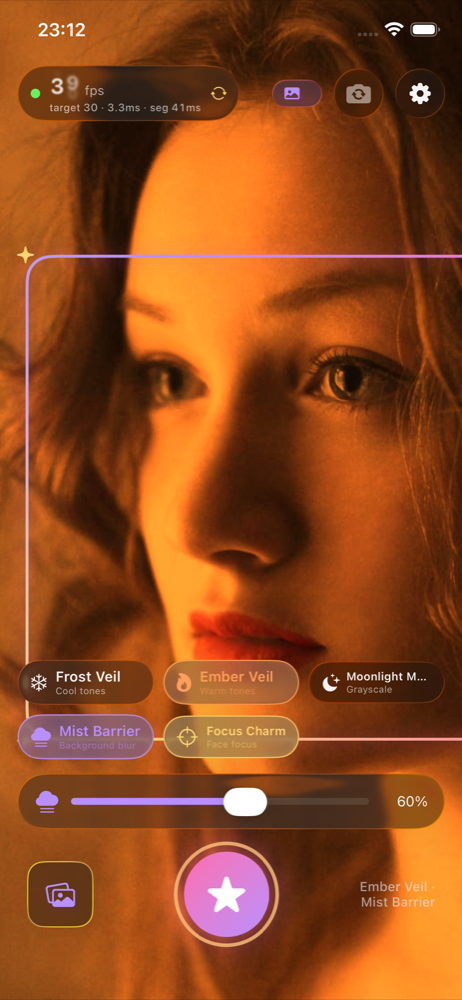
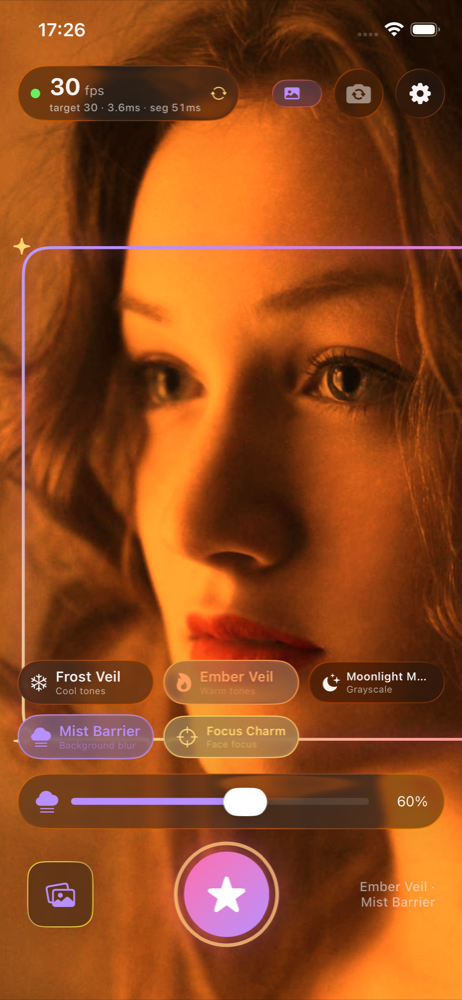
Maho Lens: frame-driven preview rendering; record device performance reports
On the iPhone 16e the camera delivered 58 and 29 fps and rendering took ~1 ms, yet the
preview counted 50 and 24 fps because the MTKView drew on a display timer at the target
rate and beat against the capture rate. The view is now paused and draw() runs for every
captured frame, so the preview rate tracks capture. Device reports are recorded in
docs/MODELS.md with the finding in docs/BUGS.md.

diff --git a/Maho Lens/Rendering/MetalPreviewView.swift b/Maho Lens/Rendering/MetalPreviewView.swift
@@ -25,6 +25,9 @@ final class PreviewRenderer: NSObject, MTKViewDelegate, @unchecked Sendable {
     let spellRenderer: SpellRenderer
     let monitor: PerformanceMonitor
     private let commandQueue: MTLCommandQueue?
+    /// The view we render into. Drawing is driven by frame arrival rather than a display timer, so a
+    /// 29 fps capture does not beat against a 30 Hz timer and lose frames.
+    private weak var view: MTKView?
 
     init(spellRenderer: SpellRenderer = SpellRenderer(), monitor: PerformanceMonitor) {
         self.spellRenderer = spellRenderer
@@ -33,13 +36,20 @@ final class PreviewRenderer: NSObject, MTKViewDelegate, @unchecked Sendable {
         super.init()
     }
 
+    func attach(_ view: MTKView) {
+        lock.withLock { self.view = view }
+    }
+
     func enqueue(_ frame: VideoFrame) {
-        lock.withLock {
+        let target = lock.withLock { () -> MTKView? in
             pendingFrame = frame
             hasNewFrame = true
             frameSize = frame.size
+            return view
         }
         monitor.recordCapture(at: frame.timestamp)
+        guard let target else { return }
+        DispatchQueue.main.async { target.draw() }
     }
 
     func update(mask: CIImage?) {
@@ -96,9 +106,11 @@ struct MetalPreviewView: UIViewRepresentable {
         view.delegate = renderer
         view.framebufferOnly = false
         view.colorPixelFormat = .bgra8Unorm
-        view.isPaused = false
+        // Paused: `PreviewRenderer.enqueue` calls `draw()` for every captured frame instead.
+        view.isPaused = true
         view.enableSetNeedsDisplay = false
         view.preferredFramesPerSecond = preferredFramesPerSecond
+        renderer.attach(view)
         view.backgroundColor = .black
         view.clearColor = MTLClearColor(red: 0, green: 0, blue: 0, alpha: 1)
         view.contentMode = .scaleAspectFill

diff --git a/docs/MODELS.md b/docs/MODELS.md
@@ -29,6 +29,13 @@ The dial shows preview, capture and analysis rates over a one-second window, ren
 | iPhone 16e simulator (software Core Image) | 30 fps, no spells | 30 | 0.6 | 1 | demo portrait source |
 | iPhone 16e simulator | 30 fps, Mist Barrier + Ember Veil | 23 | 3.3 | 41 | face rev 2 + synthetic mask; simulator numbers are not representative |
 | iPhone 16e simulator | 60 fps, Mist + Ember + Mono | 25 | 3.3 | 43 | same caveat |
-| iPhone 16e (Kyle's device, 2026-10-07) | 30 fps / 60 fps | _fill in from the device dial_ | | | Kyle confirmed the app runs; please paste the performance report from Settings here |
+| iPhone 16e, front camera 1920×1080 (Kyle's device, 2026-10-07, timer-driven rendering) | 60 fps, Mist Barrier | 50.0 (peak 60.0) | 0.96 | 18.3 (29 analyses/s) | capture 58 fps; meets target |
+| iPhone 16e, front camera 1920×1080 (same build) | 30 fps, Mist Barrier | 24.0 (peak 26.0) | 1.44 | 29.2 (21 analyses/s) | capture 29 fps; **below target by 1 fps** |
+| iPhone 16e, after frame-driven rendering fix | 30 fps / 60 fps | _to be re-measured_ | | | the fix removes the timer/capture beat that cost 4–5 fps |
+
+The device reports show the GPU is not the limit (about 1 ms per frame) and the camera delivers
+29 and 58 fps. The lost frames came from the preview drawing on a display timer at the target rate:
+with capture at 29 fps and a 30 Hz timer, frames periodically land two per tick and one is skipped.
+Rendering is now triggered by frame arrival, so the preview rate should track the capture rate.
 
 The 25 fps (at 30) and 50 fps (at 60) thresholds are encoded in `FrameRateSetting.minimumAcceptable` and drive the dial colour.

diff --git a/docs/BUGS.md b/docs/BUGS.md
@@ -12,6 +12,7 @@
 | 6 | FPS dial text wrapped onto three lines, then collapsed the number vertically after a fixed-size fix | Simulator screenshots | Whole dial label laid out at natural size with layout priority |
 | 7 | Spell chips overflowed the screen in a horizontal row | UI test could not reach Mist Barrier | Three-column grid, all five spells visible |
 | 8 | Settings sheet failed to present right after dismissing the gallery sheet | UI test | Test waits for dismissal; the two sheets are independent state |
+| 9 | Preview rate fell 4–5 fps below the capture rate on device (50 vs 58 at 60 fps, 24 vs 29 at 30 fps) although rendering took ~1 ms | Device performance reports | The MTKView drew on a display timer at the target rate, beating against the camera's rate; rendering is now triggered per captured frame |
 
 ## Known issues
 
